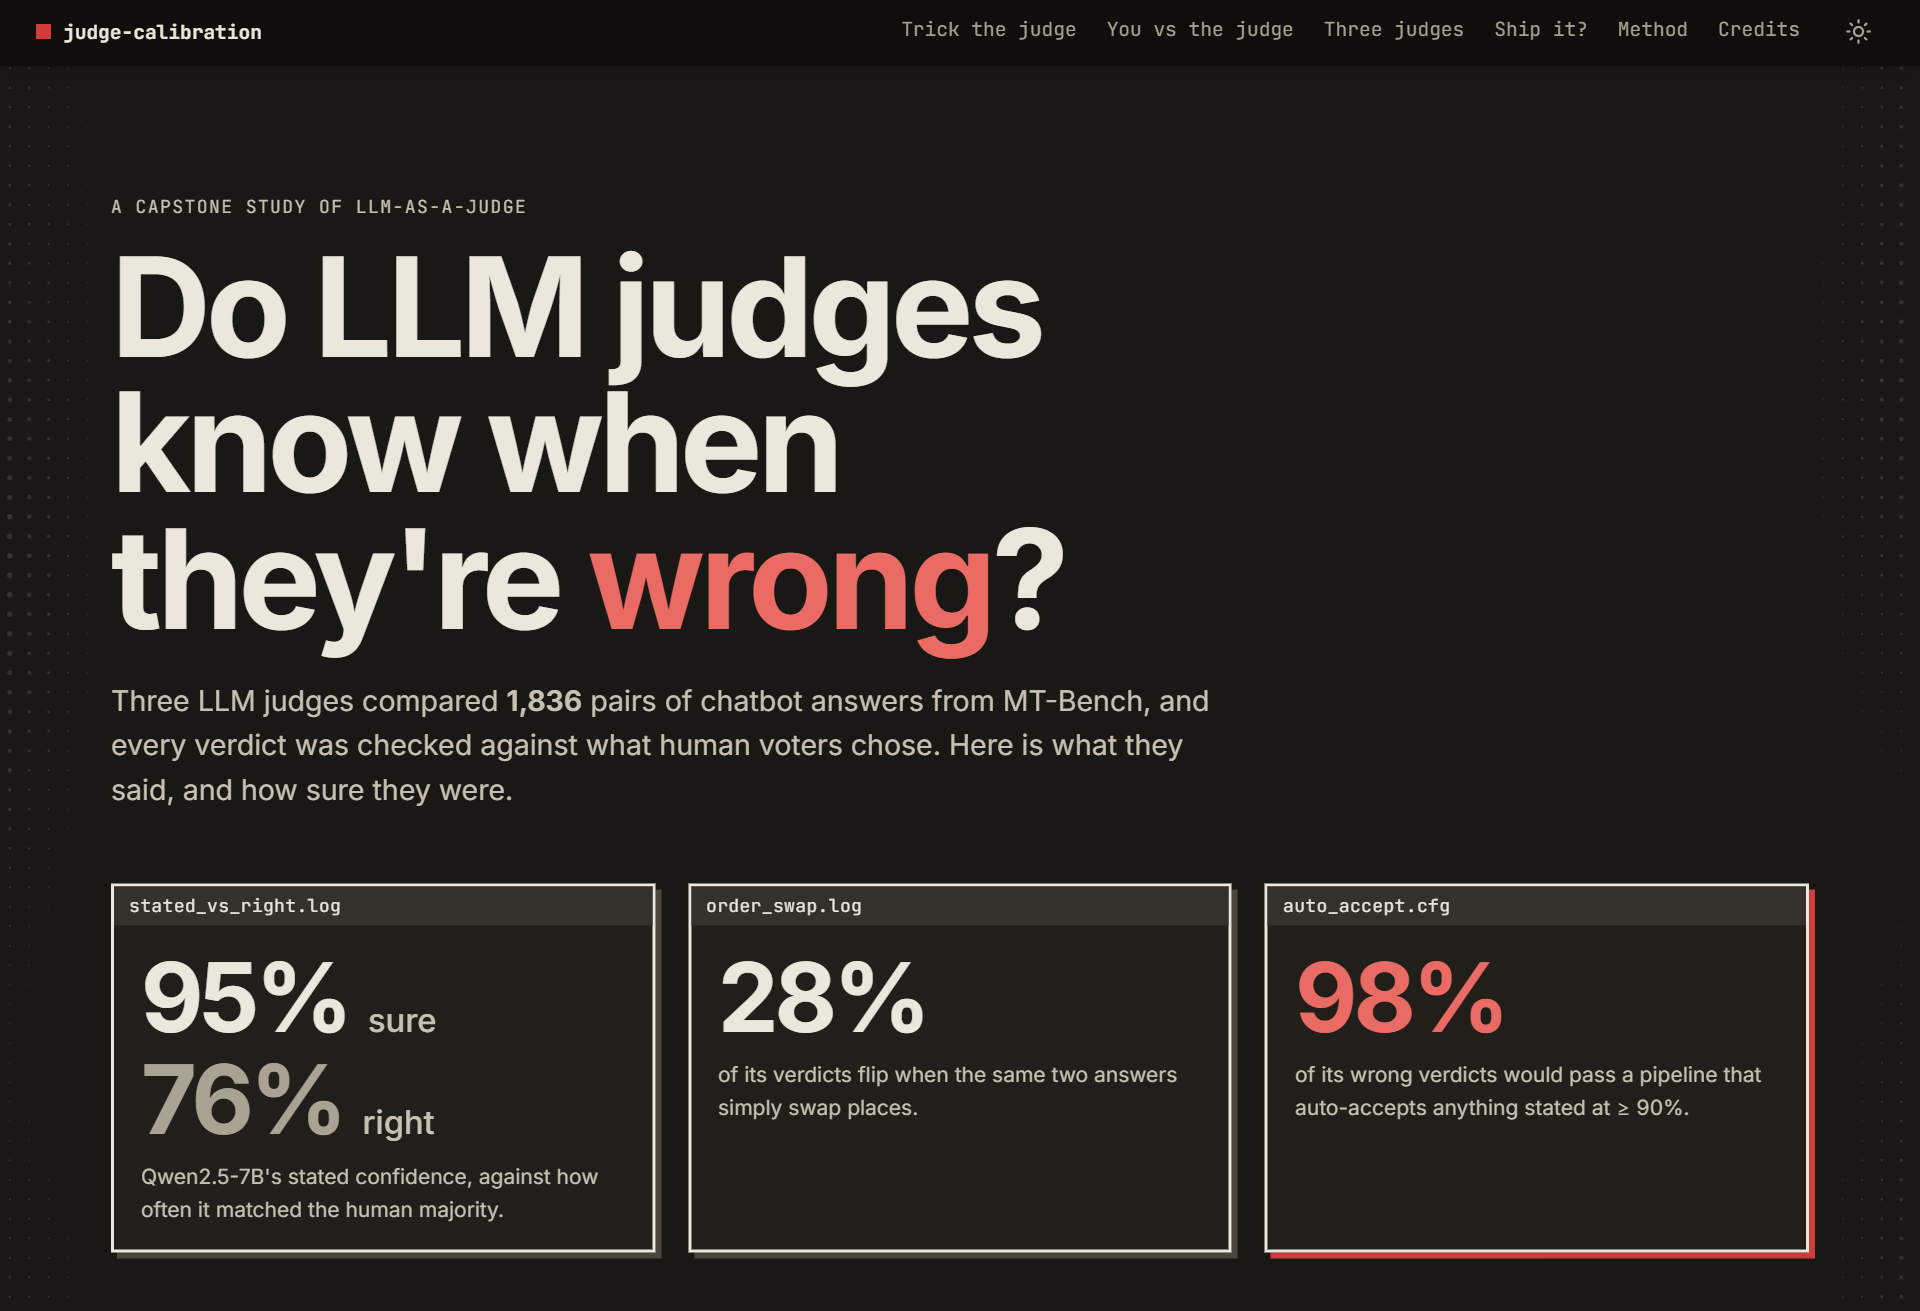
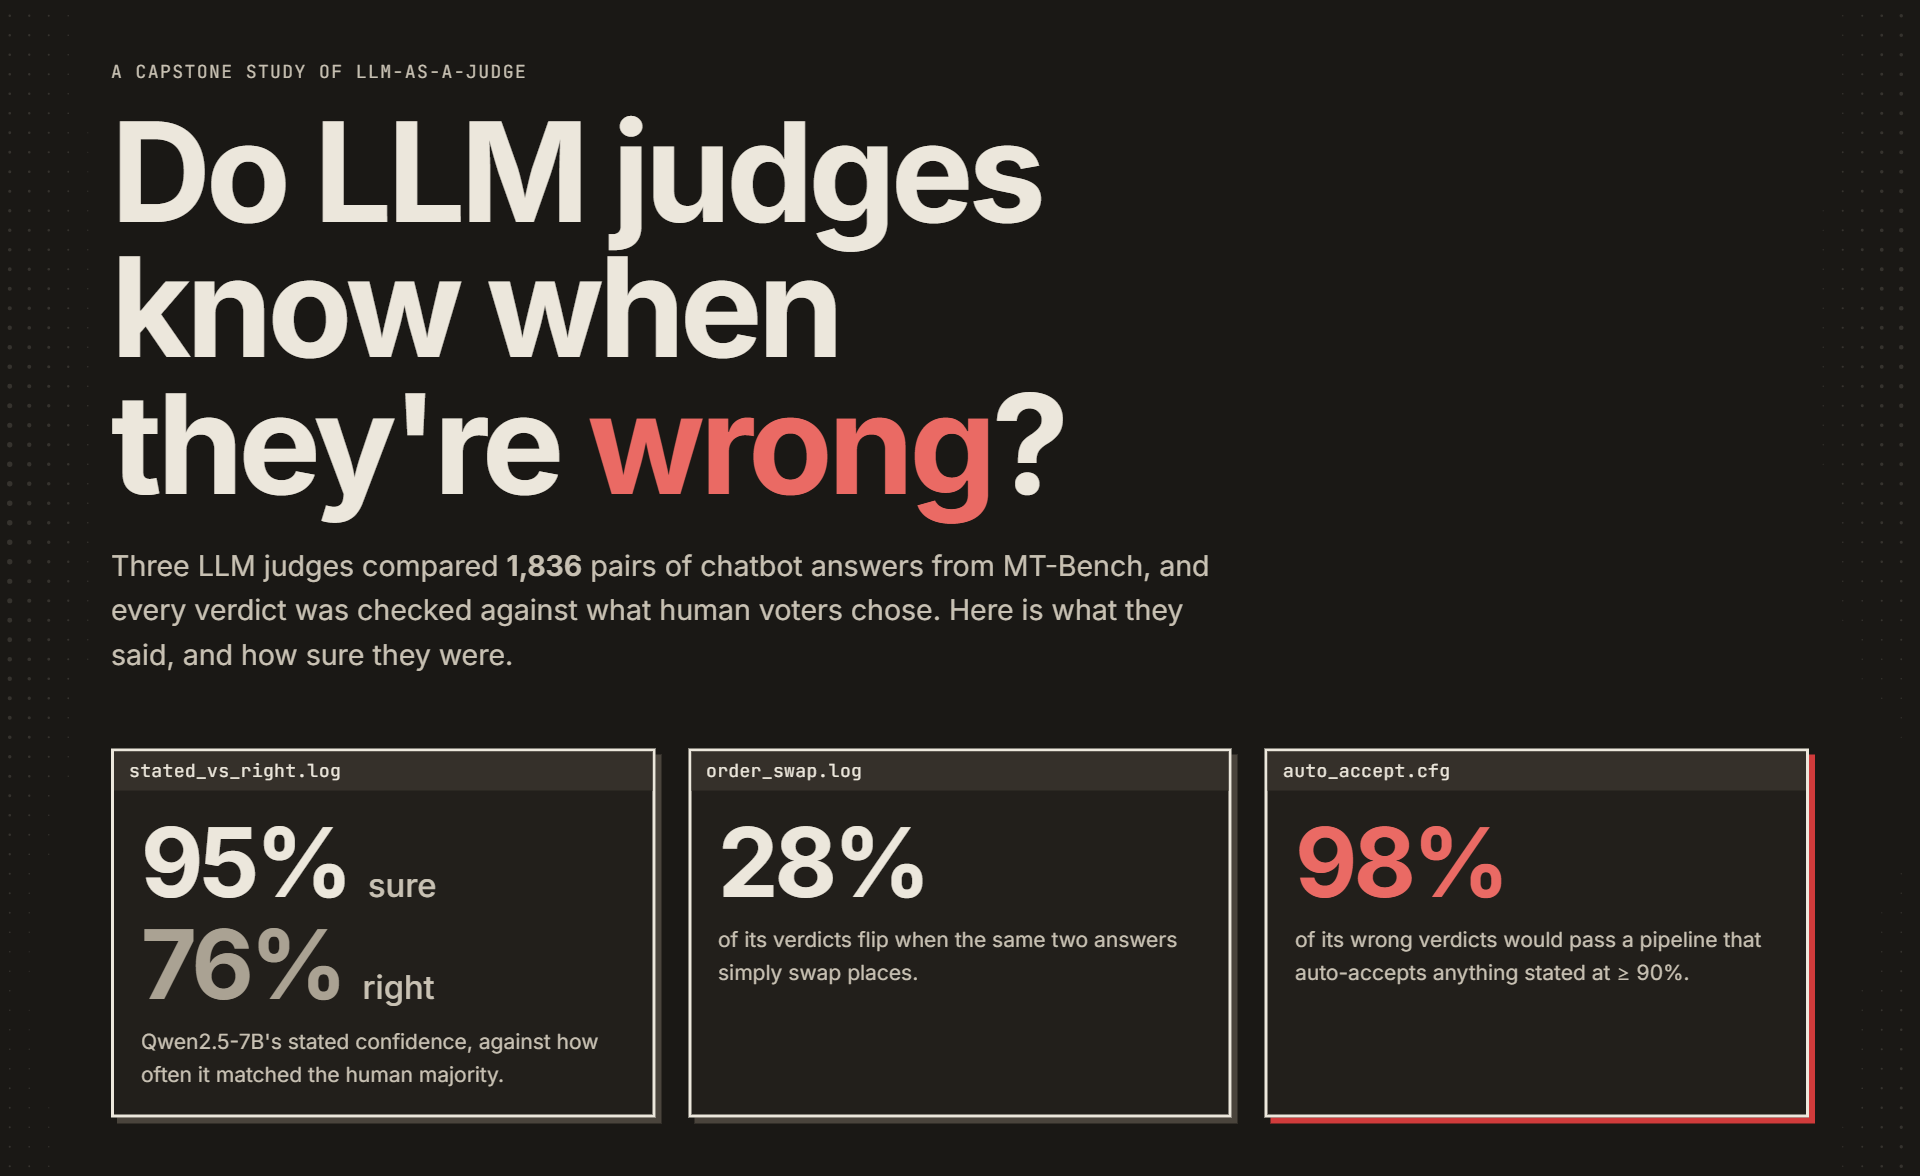
README: dark-theme comparison figure, hero without the nav bar, no Status section
- src/plots.py: plot_judge_comparison(dark=True) draws the figure in the
  site's dark theme (dark-mode amber for kev, lighter greys for labels and the
  reference line); compare_judges.py also writes judge_comparison_dark.png.
  The light figure is byte-identical.
- README shows the dark figure to readers on GitHub's dark theme.
- Hero screenshots re-captured below the navigation bar.
- Status section removed from the README.

diff --git a/src/plots.py b/src/plots.py
@@ -61,6 +61,17 @@ JUDGE_NAMES = {
 JUDGE_COLORS = {"Qwen2.5-7B": "#2a78d6", "kev-8b": "#eda100", "auto-j-13b": "#1baf7a"}
 ACCENT_RED = "#d03b3b"
 INK, INK_MUTED = "#111110", "#8a877e"
+# The site's dark theme, for figure variants shown on dark pages (the README
+# picks one by the reader's GitHub theme). Amber steps to #c98500 on dark, as on
+# the site; blue, teal and red pass there unchanged.
+DARK_JUDGE_COLORS = {**JUDGE_COLORS, "kev-8b": "#c98500"}
+DARK_RC = {
+    "figure.facecolor": "#1a1815", "axes.facecolor": "#1a1815", "savefig.facecolor": "#1a1815",
+    "axes.edgecolor": "#8f897d", "axes.labelcolor": "#ece7dc", "text.color": "#ece7dc",
+    "xtick.color": "#8f897d", "ytick.color": "#8f897d",
+    "xtick.labelcolor": "#c8c1b3", "ytick.labelcolor": "#ece7dc",
+}
+DARK_MUTED = "#aaa293"   # annotations and reference lines: 7:1 on the dark page
 
 _MUTED = "silver"
 
@@ -376,6 +387,8 @@ def _draw_forest(
     annotate: bool = True,
     reference: float | None = 0.0,
     decimals: int = 3,
+    muted: str = "dimgray",
+    reference_color: str = "gray",
 ) -> None:
     """Draws a forest panel onto `ax`: a point + interval bar per label
     (first label at the top) and a dashed reference line (default 0). No
@@ -387,6 +400,8 @@ def _draw_forest(
             dense panels whose exact values live in a CSV.
         reference: x of the dashed line, or None for no line.
         decimals: decimal places in the annotations.
+        muted, reference_color: annotation and reference-line colours
+            (lighter greys for a dark figure).
     """
     labels = list(labels)
     values_arr = np.asarray(values, dtype=float)
@@ -400,7 +415,7 @@ def _draw_forest(
     err_high = ci_high_arr - values_arr
 
     if reference is not None:
-        ax.axvline(reference, linestyle="--", color="gray", linewidth=1, zorder=1)
+        ax.axvline(reference, linestyle="--", color=reference_color, linewidth=1, zorder=1)
     # One errorbar call per point, since one call takes only one color.
     for x, y, lo_err, hi_err, color in zip(values_arr, y_pos, err_low, err_high, point_colors):
         ax.errorbar([x], [y], xerr=[[lo_err], [hi_err]], fmt="o", color=color, ecolor=color,
@@ -412,7 +427,7 @@ def _draw_forest(
         for x, y, lo, hi in zip(values_arr, y_pos, ci_low_arr, ci_high_arr):
             text = f"{x:.{decimals}f}" if np.isnan(lo) else f"{x:.{decimals}f} [{lo:.{decimals}f}, {hi:.{decimals}f}]"
             ax.annotate(text, xy=(x, y), xytext=(0, 10), textcoords="offset points",
-                        ha="center", fontsize=8, color="dimgray")
+                        ha="center", fontsize=8, color=muted)
 
     ax.set_yticks(y_pos)
     ax.set_yticklabels(labels)
@@ -943,15 +958,23 @@ def plot_rq5_verbose_shift(
     return _save(fig, f"rq5_verbose_shift_{model_slug}.png")
 
 
-def plot_judge_comparison(panels: list[dict], filename: str = "judge_comparison.png") -> Figure:
+def plot_judge_comparison(panels: list[dict], filename: str = "judge_comparison.png", dark: bool = False) -> Figure:
     """The three judges side by side, one panel per measure, one row per
     judge population (split by coverage regime or turn where the RQ split
     it). Rows are coloured by judge.
 
     Each panel: {"title", "xlabel", "reference" (x of the dashed line, or
     None), "rows": [(judge, label, value, ci_low, ci_high), ...]}.
+    `dark` draws it in the site's dark theme (same data, same layout).
     Saved to results/figures/{filename}.
     """
+    with plt.rc_context(DARK_RC if dark else {}):
+        return _judge_comparison_figure(panels, filename, dark)
+
+
+def _judge_comparison_figure(panels: list[dict], filename: str, dark: bool) -> Figure:
+    colors = DARK_JUDGE_COLORS if dark else JUDGE_COLORS
+    greys = {"muted": DARK_MUTED, "reference_color": DARK_MUTED} if dark else {}
     n_rows = max(len(p["rows"]) for p in panels)
     ncols = 2
     nrows = int(np.ceil(len(panels) / ncols))
@@ -965,8 +988,9 @@ def plot_judge_comparison(panels: list[dict], filename: str = "judge_comparison.
             [lo for _, _, _, lo, _ in rows],
             [hi for _, _, _, _, hi in rows],
             panel["xlabel"],
-            colors=[JUDGE_COLORS.get(judge, "tab:gray") for judge, _, _, _, _ in rows],
+            colors=[colors.get(judge, "tab:gray") for judge, _, _, _, _ in rows],
             reference=panel.get("reference"),
+            **greys,
         )
         ax.set_title(panel["title"], fontsize=10)
     for ax in list(axes.flat)[len(panels):]:

diff --git a/analysis/compare_judges.py b/analysis/compare_judges.py
@@ -9,7 +9,8 @@ ranker. kev-8b rows are split by coverage regime and auto-j rows by turn,
 as in RQ6 and RQ7. Nothing is recomputed: each value and CI is copied from
 the table that reported it.
 
-Writes results/judge_comparison.csv and results/figures/judge_comparison.png.
+Writes results/judge_comparison.csv and results/figures/judge_comparison.png (plus
+judge_comparison_dark.png, the same figure in the site's dark theme for the README).
 """
 
 import argparse
@@ -142,6 +143,7 @@ def main(config_path: str, kev_config_path: str, autoj_config_path: str) -> None
             }
         )
     plot_judge_comparison(panels)
+    plot_judge_comparison(panels, "judge_comparison_dark.png", dark=True)   # the README's dark-theme copy
 
 
 if __name__ == "__main__":

diff --git a/README.md b/README.md
@@ -109,7 +109,10 @@ site's "Trick the judge" section.*
 | <img src="docs/readme/dot-kev.svg" width="12" alt=""> | kev-8b | Open stand-in for an industry "calibrated decision model" claim; never trained to judge | RQ6 | class probability, order-swap agreement |
 | <img src="docs/readme/dot-autoj.svg" width="12" alt=""> | auto-j-13b (GPTQ 4-bit) | Llama-2-13B fine-tuned specifically for pairwise judging | RQ7 | self-consistency, order-swap agreement |
 
-![Three judges compared on error detection, overconfidence, position bias and the padding attack, each with its 95% interval](results/figures/judge_comparison.png)
+<picture>
+  <source media="(prefers-color-scheme: dark)" srcset="results/figures/judge_comparison_dark.png">
+  <img src="results/figures/judge_comparison.png" alt="Three judges compared on error detection, overconfidence, position bias and the padding attack, each with its 95% interval">
+</picture>
 
 | | <img src="docs/readme/dot-qwen.svg" width="12" alt=""> Qwen2.5-7B | <img src="docs/readme/dot-kev.svg" width="12" alt=""> kev-8b | <img src="docs/readme/dot-autoj.svg" width="12" alt=""> auto-j-13b |
 |---|---|---|---|
@@ -255,11 +258,6 @@ analysis to the site's data, is in [`CLAUDE.md`](CLAUDE.md) §7.
   signals.
 - The primary judge's output is JSON-schema constrained. A 100-item ablation
   found this changes the verdict on 4% of items.
-
-## Status
-
-RQ1–RQ7 and the interactive site are complete. Remaining: the report's
-framing sections and a fresh-clone reproducibility check (`REPRODUCE.md`).
 
 ## How to cite
 
